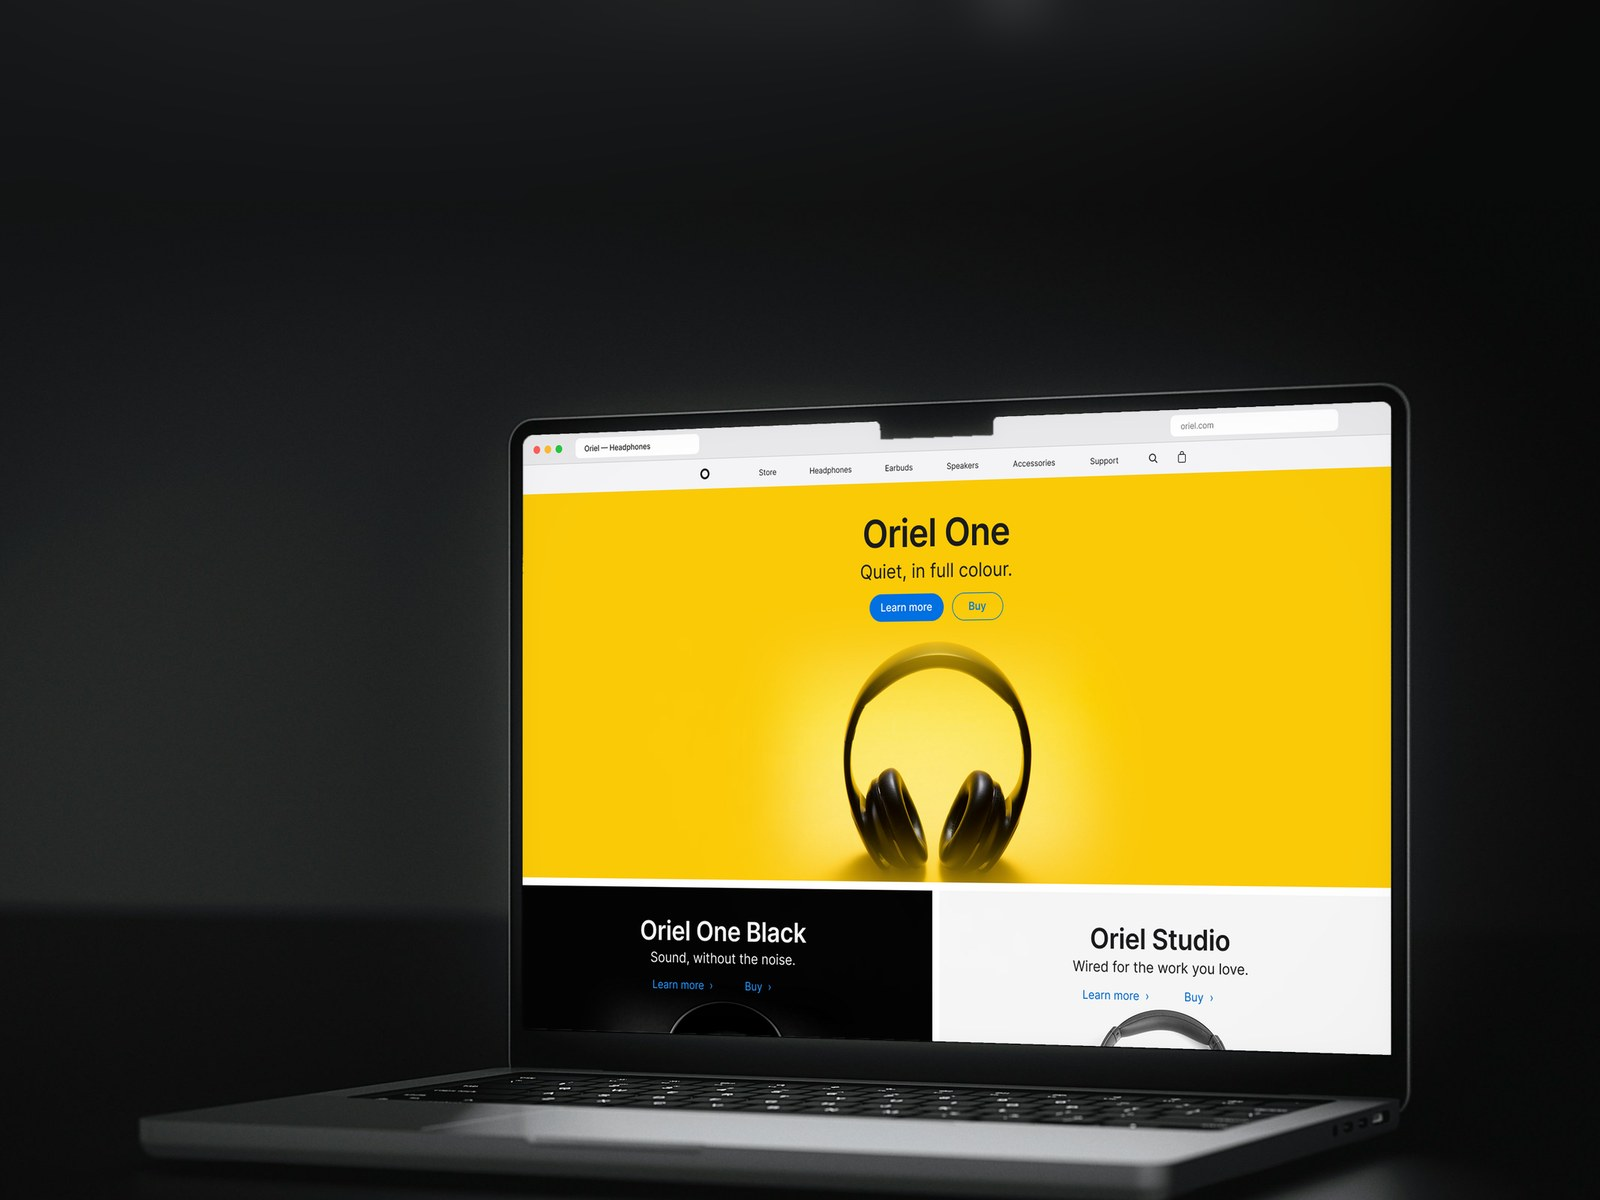
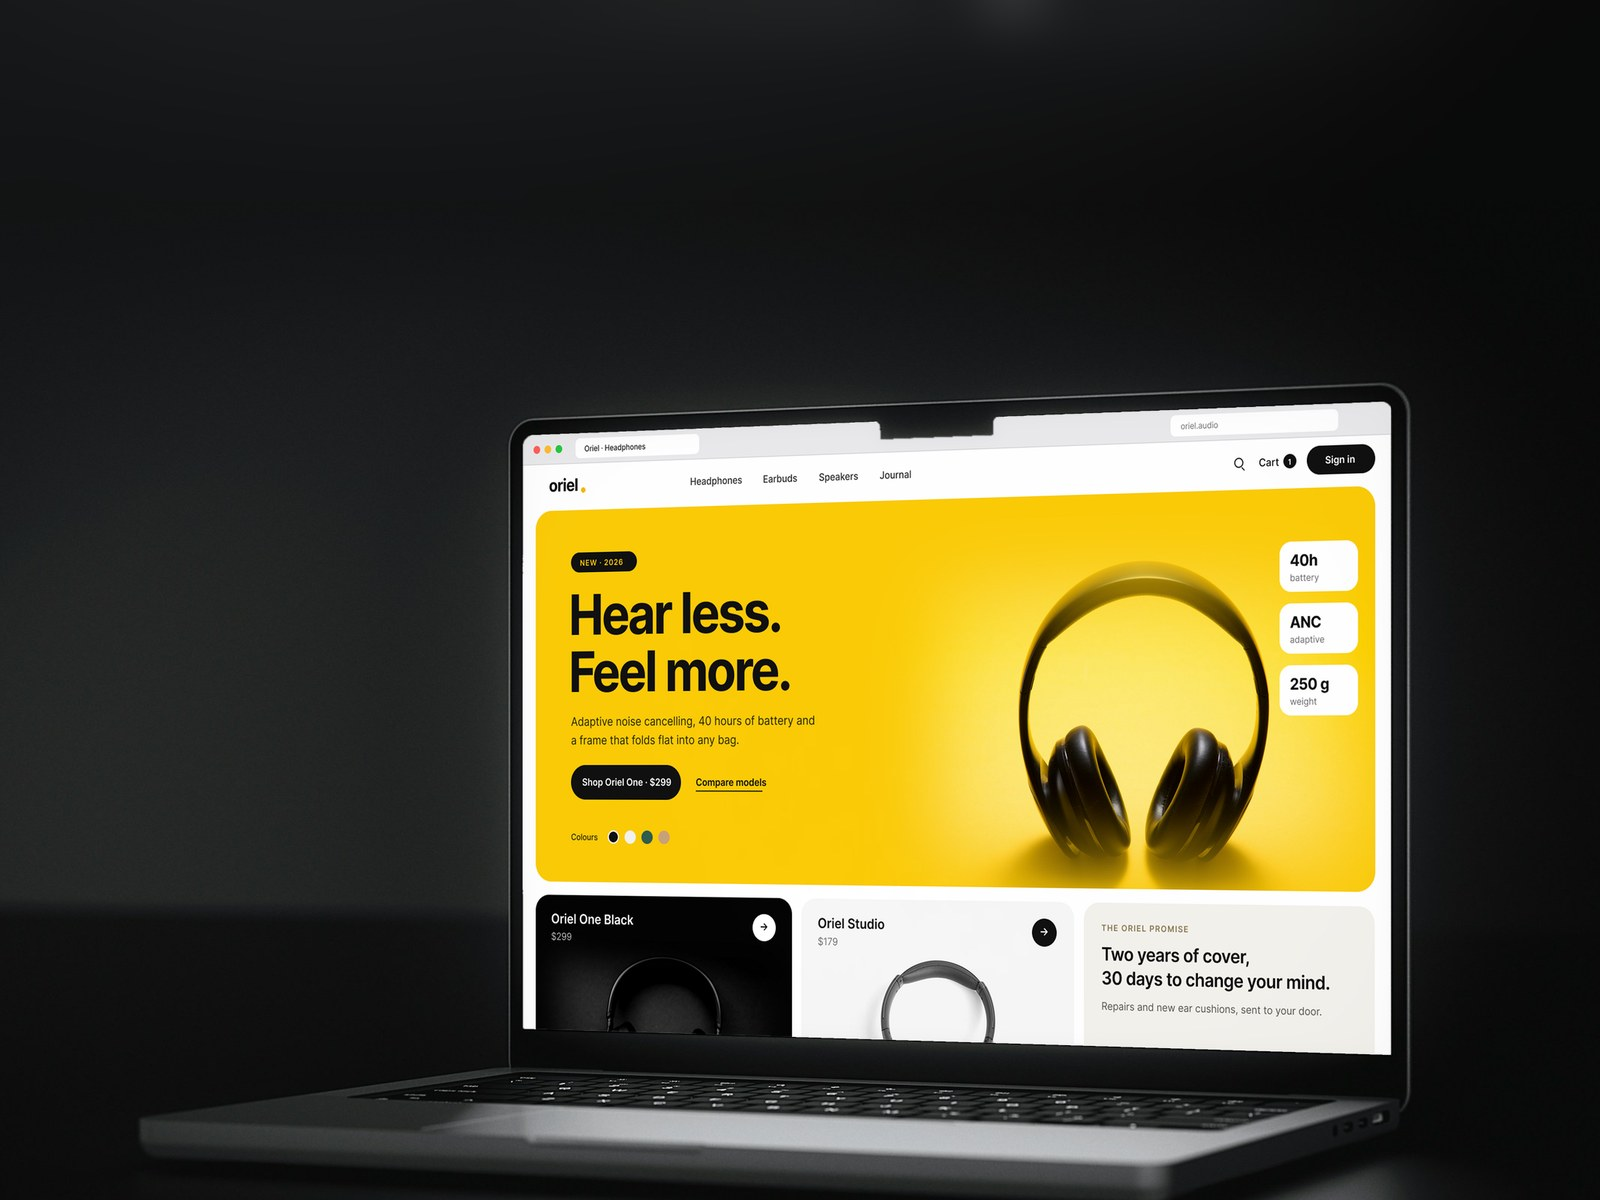
Websites: New websites tile with an original product-brand layout
Claude-Session: https://claude.ai/code/session_011BdSE2fEeiEv9ZgoYmWAPn

Changed region(s): [[0.3125, 0.37, 0.875, 0.8942], [0.625, 0.7708, 0.8438, 0.8942]]

diff --git a/src/content/seed-data.ts b/src/content/seed-data.ts
@@ -139,7 +139,7 @@ export const SERVICES: Service[] = [
         _key: "o1",
         title: "New websites",
         text: "Designed around your offer and built to turn visits into enquiries.",
-        image: img(`${WEB}/tile-new.jpg`, 1600, 1200, "A laptop in a dark studio showing a headphone brand's home page: Oriel One on bright yellow, with Learn more and Buy buttons and two product tiles below"),
+        image: img(`${WEB}/tile-new.jpg`, 1600, 1200, "A laptop in a dark studio showing a headphone brand's home page: Hear less. Feel more. on bright yellow, with spec cards and product cards below"),
       },
       {
         _key: "o2",
